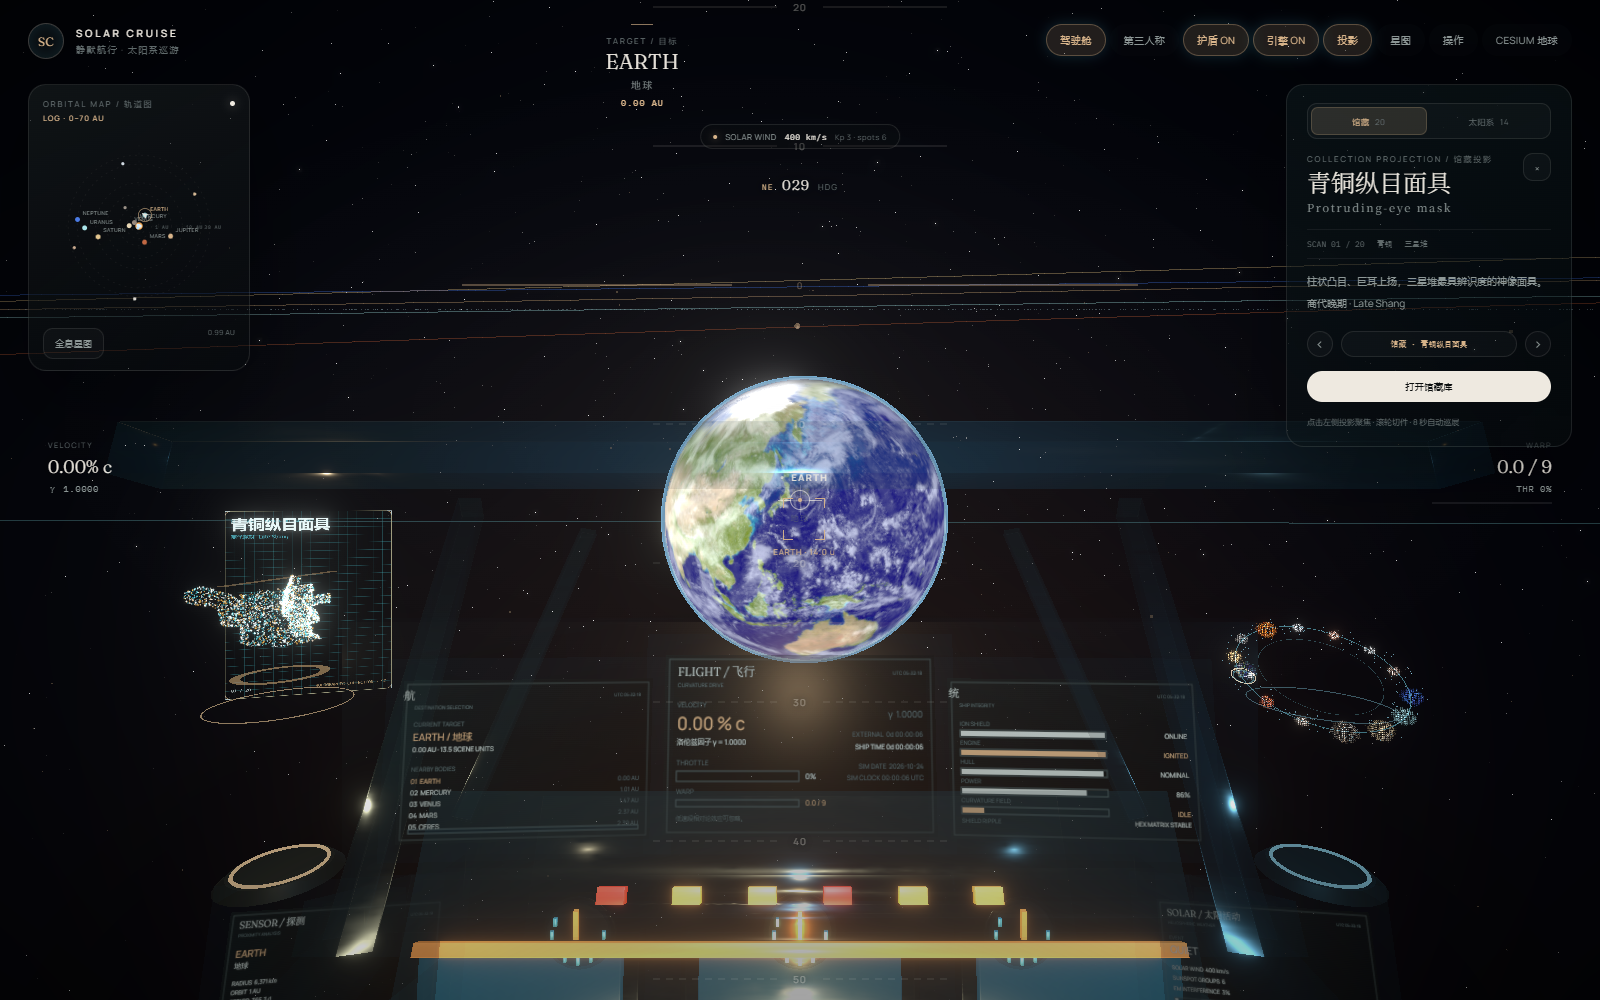
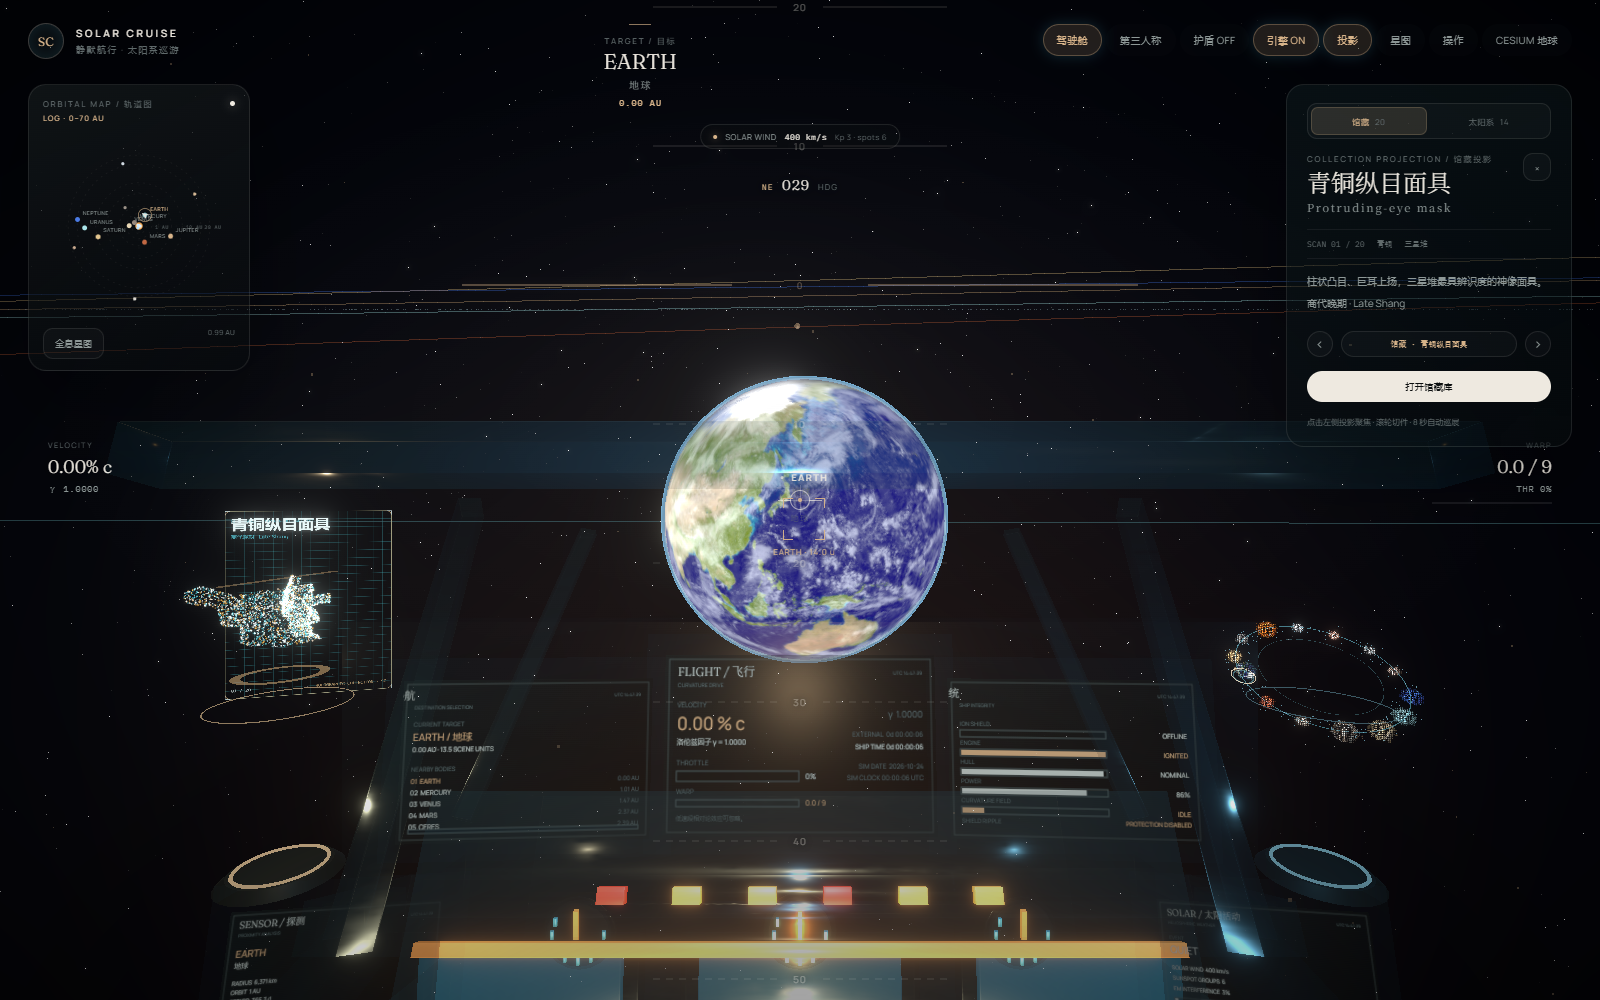
fix: view-relative W steering, roll direction and shield default
- Hold W while free-looking: latch the camera's world direction, turn the
  hull toward it while the camera stays locked, then settle straight
- Correct A/D roll direction and align the mobile roll buttons with it
- Start with shields down; require H to deploy them and make impact logs
  reflect the shield state
- Refresh docs screenshots and the control manual

diff --git a/src/scene/FlightController.jsx b/src/scene/FlightController.jsx
@@ -30,6 +30,12 @@ export function FlightController() {
   const lastPosition = useRef(flightState.position.clone());
   const tempQuat = useMemo(() => new Quaternion(), []);
   const tempVec = useMemo(() => new Vector3(), []);
+  const alignYaw = useMemo(() => new Quaternion(), []);
+  const alignPitch = useMemo(() => new Quaternion(), []);
+  const viewTarget = useMemo(() => new Quaternion(), []);
+  const viewInverse = useMemo(() => new Quaternion(), []);
+  const alignEuler = useMemo(() => new Euler(0, 0, 0, 'YXZ'), []);
+  const viewAssist = useRef(false);
 
   useEffect(() => {
     const down = (event) => {
@@ -211,7 +217,7 @@ export function FlightController() {
         (keys.current.ArrowRight ? 1 : 0) +
         touchYaw +
         (looking ? 0 : -mouse.current.dx * 0.0022);
-    const rollInput = autopilotActive ? 0 : (keys.current.KeyA ? 1 : 0) - (keys.current.KeyD ? 1 : 0) + touchRoll;
+    const rollInput = autopilotActive ? 0 : (keys.current.KeyD ? 1 : 0) - (keys.current.KeyA ? 1 : 0) + touchRoll;
     if (!autopilotActive) {
       flightState.steerX = yawInput;
       flightState.steerY = pitchInput;
@@ -226,6 +232,32 @@ export function FlightController() {
       q.multiply(tempQuat.setFromAxisAngle(UP, yawInput * 0.75 * turnScale * dt));
       q.multiply(tempQuat.setFromAxisAngle(FORWARD, rollInput * 1.2 * turnScale * dt));
       q.normalize();
+
+      // W is view-relative: latch the current free-look direction as a world-space
+      // target, turn the hull to it while the camera stays locked on that direction.
+      const alignThrust = looking && keys.current.KeyW;
+      const lookStrength = Math.abs(flightState.lookYaw) + Math.abs(flightState.lookPitch);
+      if (!alignThrust) {
+        viewAssist.current = false;
+      } else if (!viewAssist.current && lookStrength > 0.03) {
+        alignYaw.setFromAxisAngle(UP, -flightState.lookYaw);
+        alignPitch.setFromAxisAngle(RIGHT, flightState.lookPitch);
+        viewTarget.copy(q).multiply(alignYaw).multiply(alignPitch);
+        viewAssist.current = true;
+      }
+      if (alignThrust && viewAssist.current) {
+        q.slerp(viewTarget, 1 - Math.exp(-dt * 4.2 * turnScale));
+        q.normalize();
+        viewInverse.copy(q).invert().multiply(viewTarget);
+        alignEuler.setFromQuaternion(viewInverse, 'YXZ');
+        flightState.lookYaw = -alignEuler.y;
+        flightState.lookPitch = Math.max(-1.54, Math.min(1.54, alignEuler.x));
+        if (Math.abs(alignEuler.x) + Math.abs(alignEuler.y) < 0.004) {
+          flightState.lookYaw = 0;
+          flightState.lookPitch = 0;
+          viewAssist.current = false;
+        }
+      }
 
       const throttleUp = keys.current.KeyW || keys.current.ShiftLeft || keys.current.ShiftRight;
       const throttleDown = keys.current.KeyS || keys.current.ControlLeft || keys.current.ControlRight;
@@ -347,7 +379,11 @@ export function FlightController() {
               angleFactor,
               mass: 1,
             });
-            store.addLog(`警告：${body.name} 引力边界，护盾吸收冲击。`);
+            store.addLog(
+              `警告：${body.name} 引力边界，${
+                flightState.shield ? '护盾吸收冲击。' : '护盾未展开，船体受到直接冲击。'
+              }`,
+            );
             lastCollision.current = { id: body.id, at: now };
           }
         }

diff --git a/src/ui/HUD.jsx b/src/ui/HUD.jsx
@@ -237,7 +237,7 @@ export function HUD() {
           <span>
             {state.earthMode
               ? 'Cesium 地球 · 鼠标拖拽旋转 / 滚轮缩放'
-              : '鼠标 360° 环视 · W/S 前进/反推 · 滚轮切投影 · J 全息星图 · V 视角'}
+              : '鼠标 360° 环视 · W 朝视线转向推进 · S 反推 · 滚轮切投影 · J 星图 · V 视角'}
           </span>
         </div>
       </div>
@@ -358,16 +358,16 @@ function JumpMenu({ state }) {
 function HelpPanel({ state }) {
   const rows = [
     ['鼠标', '驾驶舱 360° 自由环视 / 追尾视角转向'],
-    ['W / S', '前进推力 / 反推刹车（S 可进入倒退）'],
+    ['W / S', 'W 朝当前视角转向并推进 / S 反推（S 可进入倒退）'],
     ['Shift', '加力'],
     ['方向键', '俯仰 / 偏航'],
-    ['A / D', '滚转'],
+    ['A / D', '滚转（A 左 / D 右）'],
     ['数字 0–9', '直接设定曲率档位'],
     ['Space', '跳跃到当前目标'],
     ['滚轮', '切换当前投影：馆藏下一件 / 太阳系下一个天体'],
     ['J', '打开 / 关闭全屏全息星图'],
     ['V', '驾驶舱 / 第三人称'],
-    ['H', '离子护盾'],
+    ['H', '离子护盾开 / 关（默认关闭）'],
     ['E', '引擎点火 / 关闭'],
     ['T', '时间倍率'],
     ['R', '扫描邻近天体'],

diff --git a/src/scene/AsteroidStrike.jsx b/src/scene/AsteroidStrike.jsx
@@ -179,7 +179,9 @@ export function AsteroidStrike() {
         state.current.flashAt = performance.now() / 1000;
         store.registerShieldImpact();
         store.addLog(
-          `护盾吸收小行星动能：相对速度 ${relativeSpeed.toFixed(1)} u/s · 法向撞击 ${Math.round(angleFactor * 100)}%。`,
+          flightState.shield
+            ? `护盾吸收小行星动能：相对速度 ${relativeSpeed.toFixed(1)} u/s · 法向撞击 ${Math.round(angleFactor * 100)}%。`
+            : `护盾未展开，船体受到小行星直接冲击：相对速度 ${relativeSpeed.toFixed(1)} u/s。`,
         );
       } else {
         const speed = state.current.velocity.length();

diff --git a/src/ui/MobileControls.jsx b/src/ui/MobileControls.jsx
@@ -170,7 +170,7 @@ export function MobileControls() {
             </button>
             <button
               type="button"
-              onPointerDown={roll(1)}
+              onPointerDown={roll(-1)}
               onPointerUp={stopRoll}
               onPointerLeave={stopRoll}
               onPointerCancel={stopRoll}
@@ -179,7 +179,7 @@ export function MobileControls() {
             </button>
             <button
               type="button"
-              onPointerDown={roll(-1)}
+              onPointerDown={roll(1)}
               onPointerUp={stopRoll}
               onPointerLeave={stopRoll}
               onPointerCancel={stopRoll}

diff --git a/src/state/useFlightStore.js b/src/state/useFlightStore.js
@@ -16,7 +16,7 @@ export const useFlightStore = create((set, get) => ({
   viewMode: 'cockpit',
   audioEnabled: true,
   engineOn: true,
-  shield: true,
+  shield: false,
   throttle: 0,
   warp: 0,
   speedC: 0,
@@ -54,7 +54,7 @@ export const useFlightStore = create((set, get) => ({
     throttle: 0,
     session: 0,
   },
-  log: ['登舰完成。W/S 前进与反推，方向键转向，V 切换视角。'],
+  log: ['登舰完成。W 朝视线转向推进，S 反推，方向键转向，V 切换视角。'],
   impactPulse: 0,
   strikePulse: 0,
   strikeMode: 'impact',

diff --git a/src/state/flightState.js b/src/state/flightState.js
@@ -20,7 +20,7 @@ export const flightState = {
   warp: 0,
   speedC: 0,
   engineOn: true,
-  shield: true,
+  shield: false,
   shieldEnergy: 1,
   shieldFlashUntil: 0,
   externalSeconds: 0,

diff --git a/README.md b/README.md
@@ -14,7 +14,7 @@
 - 用真实行星半径与真实行星轨道距离游览太阳系；主要卫星使用真实轨道半径。
 - 打开多套导航/全息界面：轨道图、驾驶舱左右两台实体投影（左侧馆藏玻璃投影 / 右侧太阳系粒子环）、全屏 3D 全息星图。
 - 在馆藏投影库浏览与切换 20 件三星堆真实扫描点云；抽象粒子形态已退出投影界面。
-- 打开六边形离子护盾，处理太阳活动、随机小行星接近和护盾撞击。
+- 手动打开六边形离子护盾（默认关闭），处理太阳活动、随机小行星接近和护盾撞击。
 - 在手机上用触控完成所有操作。
 
 ## 第一次出航
@@ -30,7 +30,7 @@
 
 | 输入                             | 功能                                                        |
 | -------------------------------- | ----------------------------------------------------------- |
-| `W` / `S`                        | 前进推力 / 反推刹车（S 可进入倒退）                         |
+| `W` / `S`                        | W 朝当前视线方向转向并推进 / S 反推（S 可进入倒退）         |
 | `Shift`                          | 加力                                                        |
 | `0`–`9`                          | 直接设定曲率档位                                            |
 | 方向键                           | 飞船俯仰 / 偏航                                             |
@@ -43,7 +43,7 @@
 | 投影卡 `馆藏 · …` / `打开馆藏库` | 打开 20 件真实扫描馆藏投影库                                |
 | 滚轮                             | 切换当前聚焦投影：馆藏下一件 / 太阳系下一个天体             |
 | `V`                              | 驾驶舱 / 第三人称                                           |
-| `H`                              | 离子护盾开 / 关                                             |
+| `H`                              | 离子护盾开 / 关（默认关闭，起飞后手动开启）                 |
 | `E`                              | 引擎点火 / 关闭                                             |
 | `T`                              | 星历时间倍率（暂停 / 1× / 1 天每秒 / 10 天每秒 / 1 年每秒） |
 | `R`                              | 扫描邻近天体                                                |
